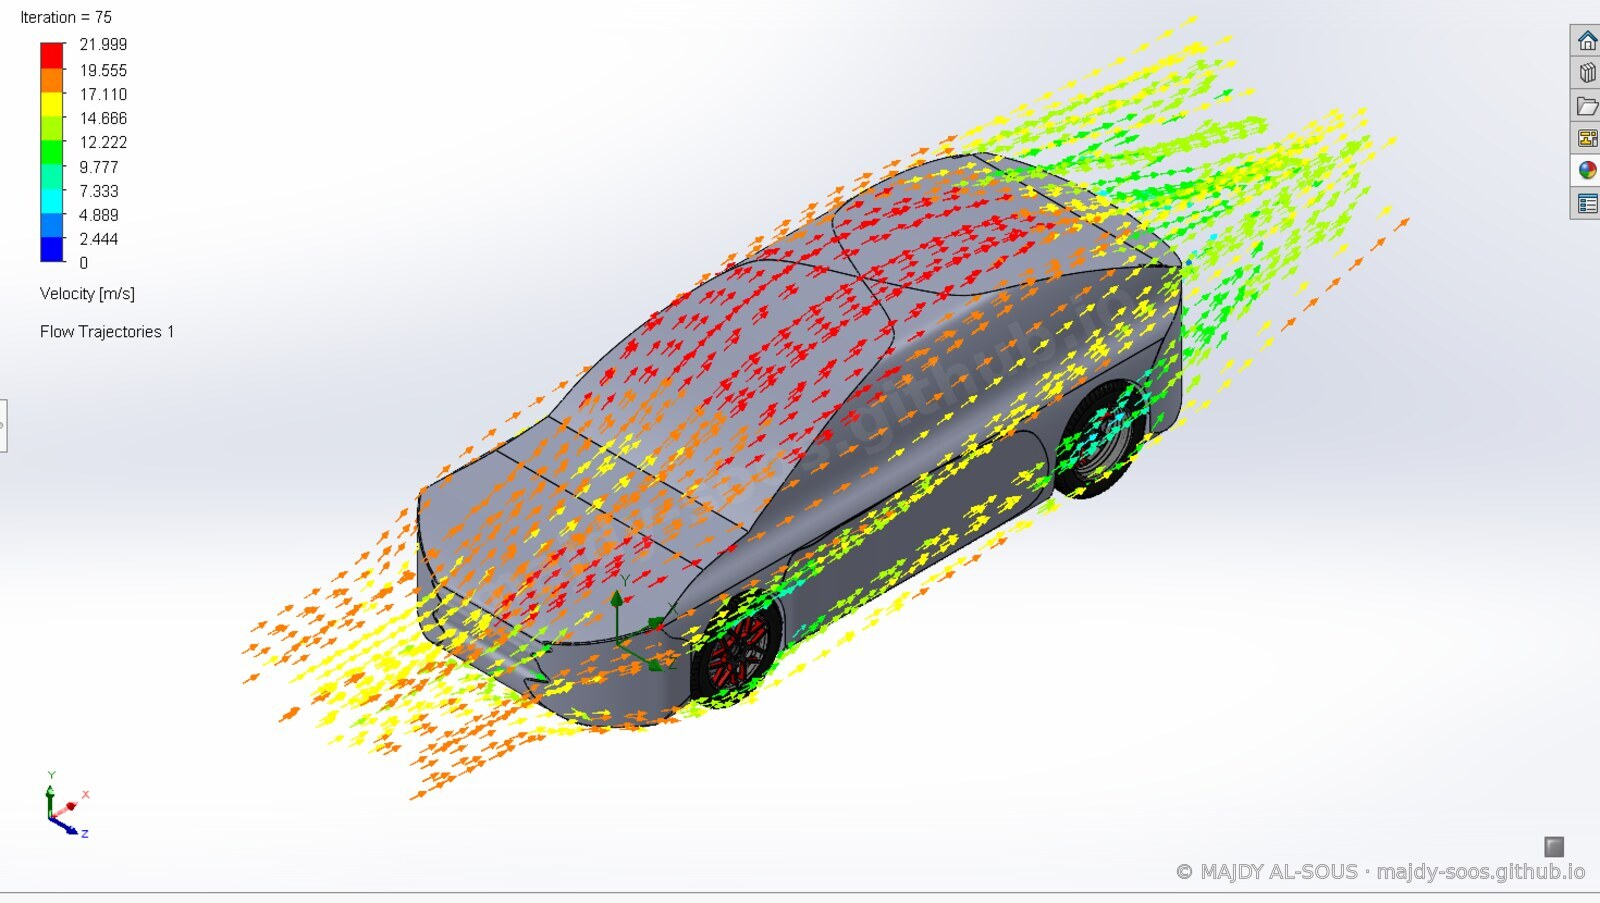
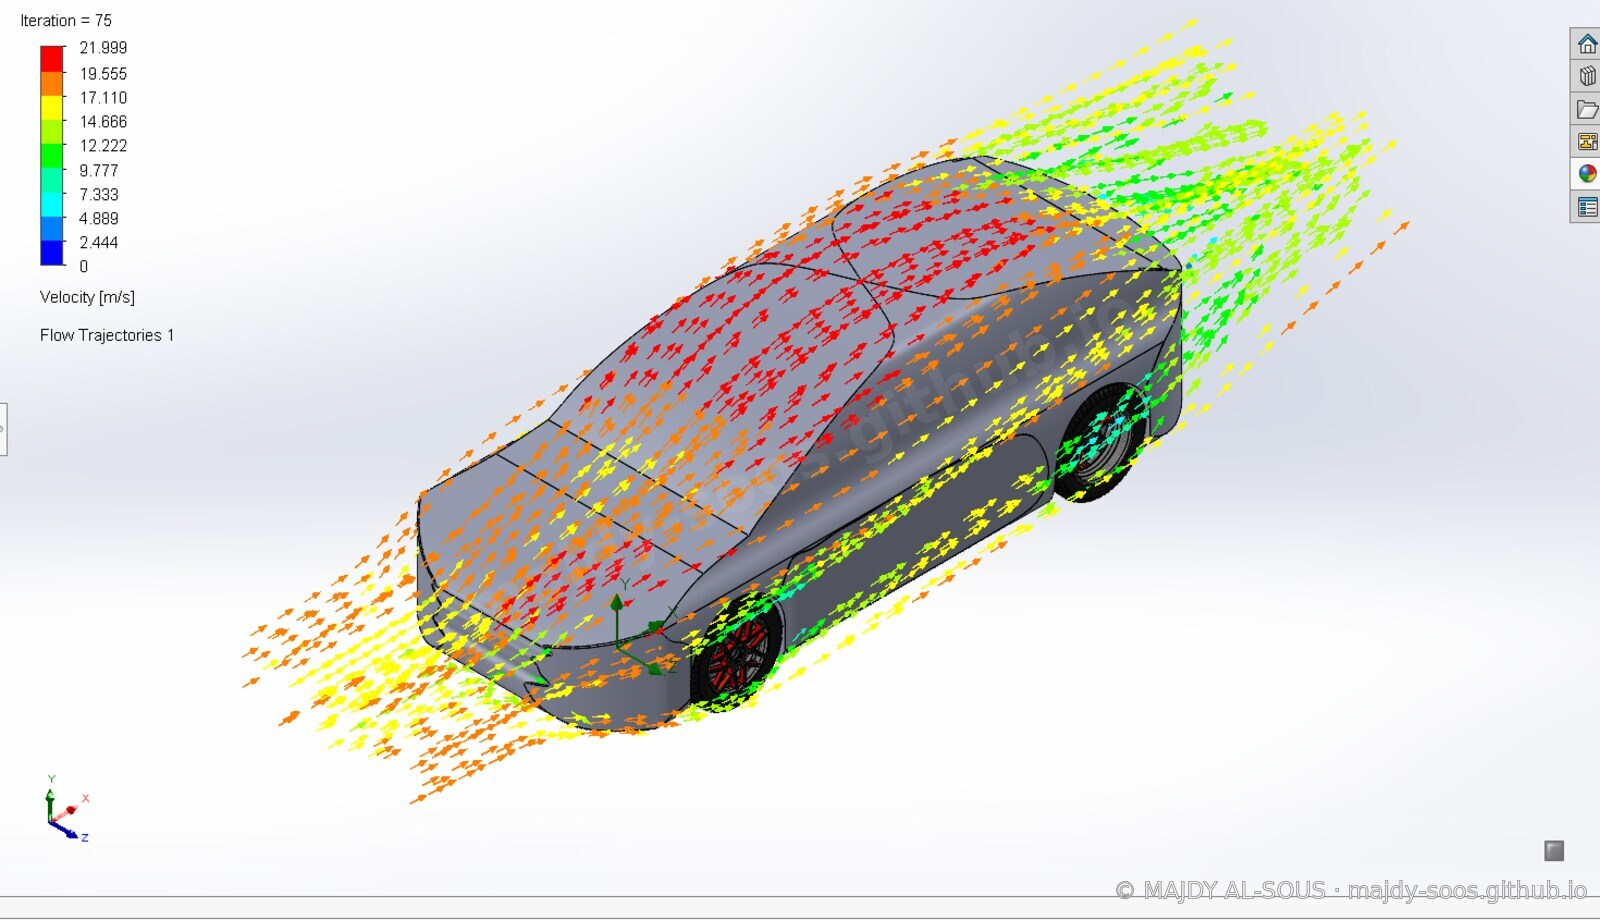
Add files via upload

diff --git a/index.html b/index.html
@@ -703,35 +703,56 @@ const PROJECTS = [
   summary:"Graduation research project, awarded 92/100 and ranked 1st in cohort, with a patent application filed: a vertical-axis wind turbine system integrated into an electric vehicle to recharge the battery from airflow while driving. Four rotor concepts were screened by comparative CFD, the winning rotor was integrated with proprietary inlet flow-conditioning and low-friction magnetic support (patent pending), and full-vehicle aerodynamic simulation verified the installation.",
   metric:"Battery coverage 33.7% → 98.5% @ 180 km/h · 1st in cohort",
   groups:[
-    {t:"Rotor Concepts — Comparative Screening",imgs:[
-      {f:"c1",c:"Twisted Two-Blade Savonius — the selected rotor (transient CFD, surface velocity distribution)",hl:true},
-      {f:"c2",c:"Three-Blade Savonius"},
-      {f:"c3",c:"Helical Turbine"},
-      {f:"c4",c:"Darrieus–Savonius Hybrid (transient CFD, velocity field)"}
+    {t:"Rotor Screening — Comparative Performance",imgs:[
+      {f:"k1",c:"Power output versus wind speed for the four twisted rotor concepts, simulated under identical conditions"}
     ]},
-    {t:"CFD Results — Velocity Contours & Flow Fields",imgs:[
-      {f:"03",c:"Velocity contours & goal convergence — concept screening run"},
-      {f:"05",c:"Velocity contours — roof placement candidate (rejected)"},
-      {f:"06",c:"Velocity contours — placement screening candidate (rejected)"},
-      {f:"07",c:"Flow trajectories — full-vehicle wake development"}
+    {t:"Rotor Concept — Twisted Two-Blade Savonius ✦ Selected",imgs:[
+      {f:"w1",c:"Twisted Two-Blade Savonius — rotor general arrangement, plan and elevation (the selected rotor)",hl:true}
     ]},
-    {t:"Structural Simulation — Selected Rotor Blade",imgs:[
-      {f:"04",c:"Static structural analysis — von Mises stress distribution under aerodynamic loading"},
+    {t:"Rotor Concept — Twisted Three-Blade Savonius",imgs:[
+      {f:"t2",c:"Twisted Three-Blade Savonius — isometric view with surface and cut-plot velocity contours"},
+      {f:"t1",c:"Twisted Three-Blade Savonius — top-plane velocity contour with torque and power goal convergence"},
+      {f:"t3",c:"Twisted Three-Blade Savonius — rotor general arrangement, plan and elevation"}
+    ]},
+    {t:"Rotor Concept — Twisted Helical Turbine",imgs:[
+      {f:"c3",c:"Twisted Helical Turbine — rotor general arrangement"}
+    ]},
+    {t:"Rotor Concept — Twisted Darrieus–Savonius Hybrid",imgs:[
+      {f:"h2",c:"Twisted Darrieus–Savonius Hybrid — isometric view with surface and cut-plot velocity contours"},
+      {f:"h1",c:"Twisted Darrieus–Savonius Hybrid — top-plane velocity contour with torque and power goal convergence"},
+      {f:"h3",c:"Twisted Darrieus–Savonius Hybrid — rotor general arrangement, plan and elevation"}
+    ]},
+    {t:"Placement Study — Candidate Turbine Positions",imgs:[
+      {f:"p1",c:"Hood position — candidate turbine volume modelled on the vehicle hood"},
+      {f:"p2",c:"Roof position — candidate turbine volume modelled on the vehicle roof"},
+      {f:"p3",c:"Frontal position — the selected location, turbine volume modelled at the vehicle front",hl:true},
+      {f:"k2",c:"Placement comparison — drag force and turbulence intensity for front, hood and roof mounting against the baseline vehicle without a turbine"}
+    ]},
+    {t:"CFD Results — Placement Velocity Contours & Wake",imgs:[
+      {f:"v1",c:"Velocity contours — turbine mounted on the hood"},
+      {f:"v2",c:"Velocity contours — turbine mounted on the roof"},
+      {f:"v3",c:"Velocity contours — turbine mounted at the front bumper (the selected configuration)",hl:true},
+      {f:"v4",c:"Flow trajectories — full-vehicle wake development at highway speed"}
+    ]},
+    {t:"Structural Simulation — Selected Twisted Two-Blade Rotor",imgs:[
+      {f:"s1",c:"Static structural analysis — von Mises stress distribution under aerodynamic loading"},
       {f:"s2",c:"Static structural analysis — factor of safety distribution"}
     ]},
     {t:"Vehicle Integration — Frontal Configuration",imgs:[
-      {f:"01",c:"Staged-fidelity baseline — reference vehicle with simplified system volume"},
-      {f:"08",c:"Selected frontal integration — system volume packaged at the vehicle front"},
-      {f:"09",c:"Integrated system seen through the front intake opening (patent pending)"},
+      {f:"09",c:"The integrated system seen through the front intake opening — internal arrangement patent pending"},
       {f:"10",c:"Cutaway — intake, flow-conditioning cascade and rotor housing in place (patent pending)"}
+    ]},
+    {t:"Energy Balance — Effect of Inlet Flow Conditioning",imgs:[
+      {f:"k3",c:"Before flow conditioning — energy produced against vehicle energy consumption across the speed range"},
+      {f:"k4",c:"After flow conditioning — the convergent–divergent nozzle roughly doubles inlet air speed, lifting produced energy above consumption",hl:true}
     ]}
   ],
-  v:4,
-  meta:{Role:"Researcher & simulation engineer", Type:"B.Sc. graduation project — patent pending", Tools:"SolidWorks Flow Simulation · CFD · Motion", Scope:"4 rotor concepts · placement study · full-vehicle CFD", Reference:"Vehicle model based on publicly listed Tesla Model 3 dimensions"},
+  v:12,
+  meta:{Role:"Researcher & simulation engineer", Type:"B.Sc. graduation project — patent pending", Tools:"SolidWorks Flow Simulation · CFD · Motion", Scope:"4 rotor concepts · placement study · full-vehicle CFD", Reference:"Tesla Model 3 (RWD / Long Range) — manufacturer-published exterior & body dimensions"},
   overview:"Electric vehicles still lose buyers to range anxiety. This project asked a direct question: how much of an EV's consumption can be recovered from the airflow the car is already pushing through? The answer became a complete system study — rotor selection by comparative CFD, aerodynamic placement screening on a reference sedan, and integration of the selected turbine with proprietary inlet flow-conditioning and low-friction magnetic support elements. The work was awarded 92/100, ranked first in the cohort, and a patent application has been filed on the system configuration — which is why exact geometry, flow-conditioning details and internal arrangements are deliberately withheld from this plate.",
-  approach:"The study ran in disciplined stages. First, four vertical-axis rotor concepts — two-blade Savonius, three-blade Savonius, helical, and a Darrieus–Savonius hybrid — were simulated under identical conditions across the full vehicle-speed envelope, extracting torque and power goals to build comparable Cp/Ct datasets. The two-blade Savonius won decisively. Second, a staged-fidelity vehicle model was built: placement candidates (roof, hood, frontal) were screened with a simplified system volume to compare drag and turbulence impact before any detailed geometry entered the domain — the frontal position preserved the vehicle's external aerodynamics best. Third, the selected rotor was integrated with a convergent inlet and flow-conditioning elements (details patent-pending), and the complete configuration was verified with full-vehicle external CFD and power analysis against the reference EV's real consumption data.",
+  approach:"The study ran in disciplined stages. The reference vehicle was not a generic body: it was modelled to the manufacturer's published exterior dimensions for a Tesla Model 3 (RWD / Long Range) — 4,720 mm overall length and 2,089 mm overall width including mirrors — together with the published under-hood and underbody datum measurements, so that packaging volumes and frontal area were representative rather than assumed. First, four vertical-axis rotor concepts — all built with twisted blades — a twisted two-blade Savonius, a twisted three-blade Savonius, a twisted helical rotor, and a twisted Darrieus–Savonius hybrid, were simulated under identical conditions across the full vehicle-speed envelope, extracting torque and power goals to build comparable Cp/Ct datasets. The twisted two-blade Savonius won decisively. Second, placement candidates — hood, roof and front bumper — were screened with a simplified system volume to compare drag and turbulence impact before any detailed geometry entered the domain — the frontal position preserved the vehicle's external aerodynamics best. Third, the selected rotor was integrated with a convergent inlet and flow-conditioning elements (details patent-pending), and the complete configuration was verified with full-vehicle external CFD and power analysis against the reference EV's real consumption data.",
   results:[
-    "Two-blade Savonius selected from four concepts — <b>Cp = 0.376 average</b> across the operating envelope, the strongest of the field",
+    "Twisted two-blade Savonius selected from four twisted concepts — <b>Cp = 0.376 average</b> across the operating envelope, the strongest of the field",
     "Frontal integration preserved external aerodynamics — <b>placement chosen by CFD screening</b>, not assumption",
     "Proprietary inlet flow-conditioning raised recoverable power — <b>battery-range coverage 33.7% → 98.5% at 180 km/h</b>",
     "<b>Awarded 92/100, 1st in cohort · patent application filed</b> — journal publication in preparation"
